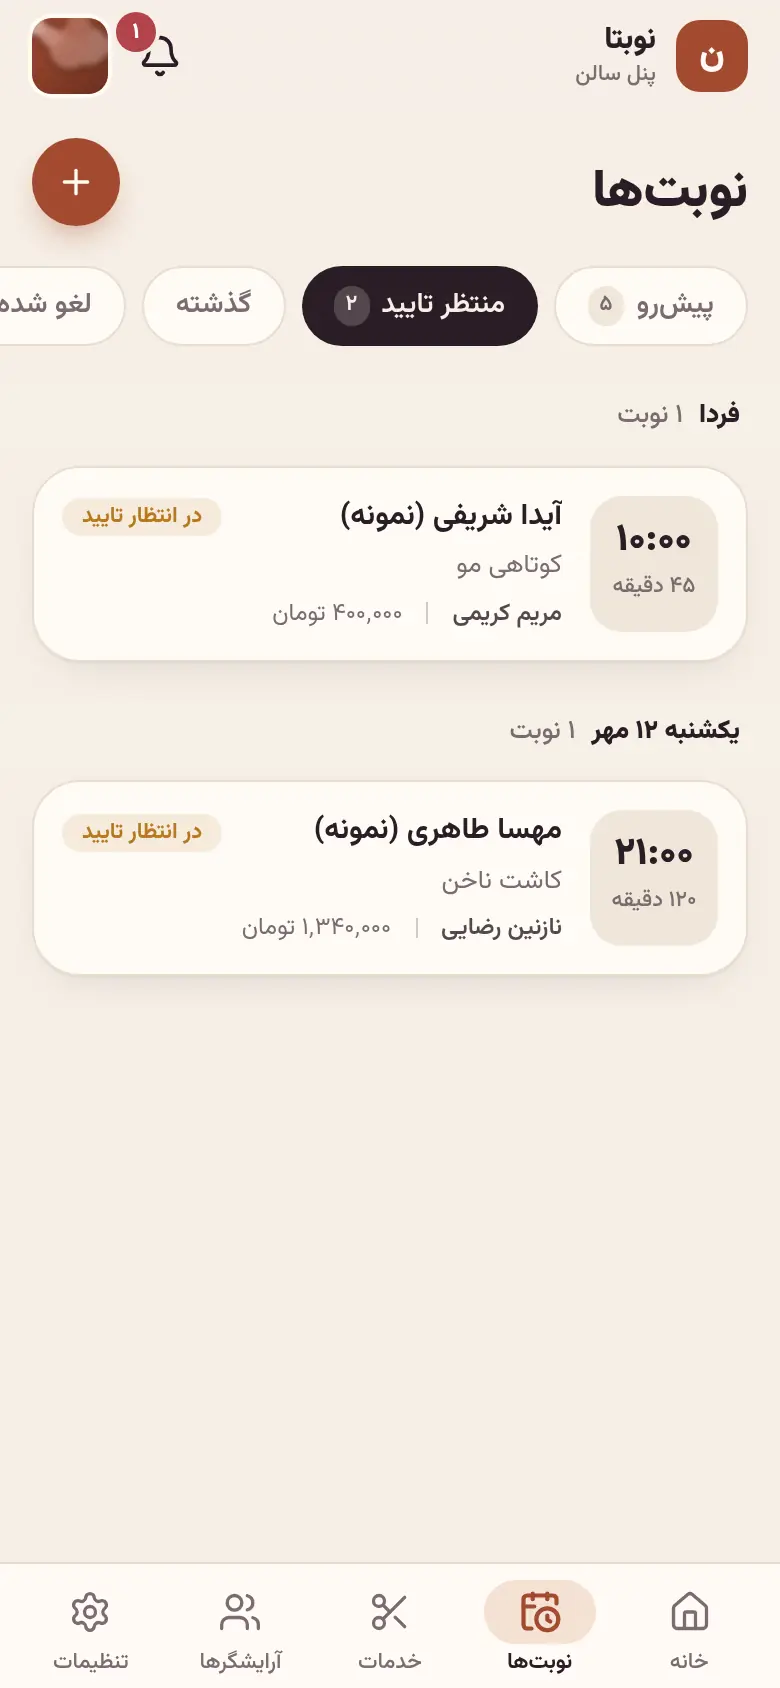
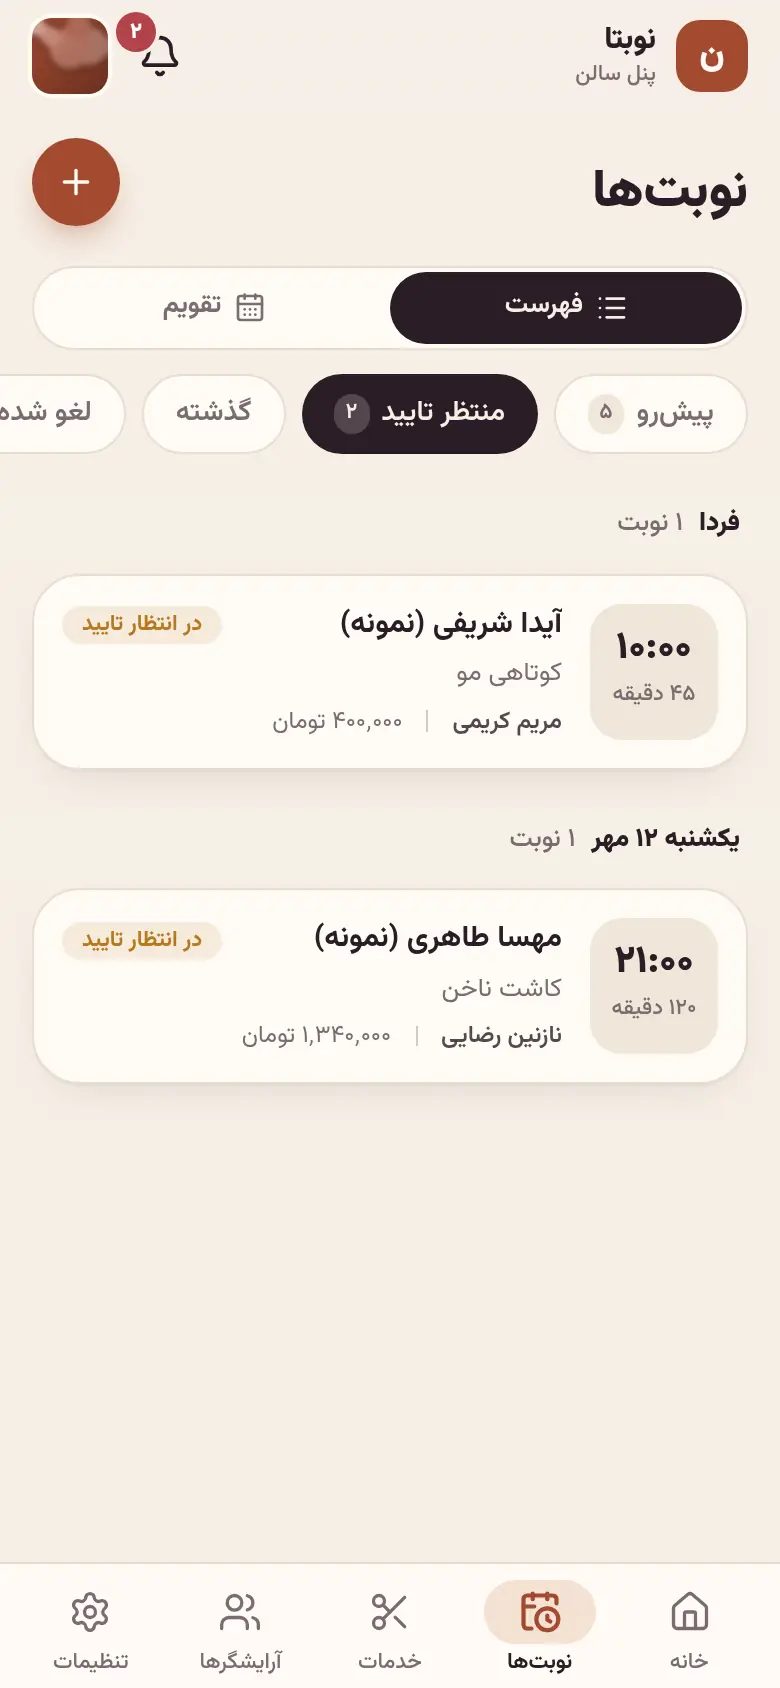
Appointments: Jalali month calendar view (salon and stylist panels)
- «فهرست / تقویم» switch on the shared appointments screen, remembered per device
  (?filter=PENDING still opens the list)
- AppointmentCalendar: Jalali month grid (Saturday–Friday, Friday marked, today ringed,
  salon-local days), booking count per day and a dot when some await confirmation, month
  total; tapping a day lists its appointments below with the usual cards and action sheet;
  month arrows (PeriodSwitcher gains allowFuture)
- Help Center: calendar step (real screenshot) in the owners' appointments guide

Claude-Session: https://claude.ai/code/session_01E1cUf2Db2pw3JrqPEy92s9

diff --git a/apps/web/src/components/app/AppointmentCalendar.tsx b/apps/web/src/components/app/AppointmentCalendar.tsx
@@ -1,0 +1,151 @@
+"use client";
+
+import { useMemo, useState } from "react";
+import { CalendarX2 } from "lucide-react";
+import DateObject from "react-date-object";
+import persian from "react-date-object/calendars/persian";
+import persian_fa from "react-date-object/locales/persian_fa";
+import { jalaliMonthPeriod } from "@/lib/accountingPeriod";
+import { toDateKey } from "@/lib/jalali";
+import { toPersianDigits } from "@/lib/persian";
+import { toSalonWallTime } from "@/lib/salonTime";
+import { PeriodSwitcher } from "./accounting";
+import { AppointmentList, relativeDayLabel, type AppAppointment } from "./appointments";
+import { EmptyState, cx } from "./ui";
+
+// Month view of the appointments screen (salon and stylist panels): a Jalali month grid with
+// each day's booking count (a dot when some still await confirmation), and the tapped day's
+// appointments underneath using the same cards and action sheet as the list. Days are
+// salon-local (toSalonWallTime), weeks run Saturday → Friday, Friday is the weekend.
+
+const WEEKDAYS = ["ش", "ی", "د", "س", "چ", "پ", "ج"];
+
+interface Cell {
+  dateKey: string;
+  day: number;
+  isFriday: boolean;
+}
+
+function monthCells(offset: number, todayKey: string) {
+  const [y, m, d] = todayKey.split("-").map(Number);
+  const first = new DateObject({ date: new Date(y, m - 1, d, 12), calendar: persian, locale: persian_fa }).setDay(1).add(offset, "month");
+  const length = first.month.length;
+  // JS getDay(): 0 = Sunday … 6 = Saturday → column 0 = Saturday.
+  const lead = (first.toDate().getDay() + 1) % 7;
+  const cells: (Cell | null)[] = Array.from({ length: lead }, () => null);
+  for (let i = 0; i < length; i++) {
+    const date = new DateObject(first).add(i, "day").toDate();
+    cells.push({ dateKey: toDateKey(date), day: i + 1, isFriday: date.getDay() === 5 });
+  }
+  return cells;
+}
+
+export default function AppointmentCalendar({
+  appointments,
+  showStylist,
+  onOpen,
+}: {
+  appointments: AppAppointment[];
+  showStylist?: boolean;
+  onOpen: (a: AppAppointment) => void;
+}) {
+  const todayKey = toSalonWallTime(new Date()).dateKey;
+  const [offset, setOffset] = useState(0);
+  const [selected, setSelected] = useState(todayKey);
+
+  const byDay = useMemo(() => {
+    const map = new Map<string, AppAppointment[]>();
+    for (const a of appointments) {
+      const key = toSalonWallTime(new Date(a.startAt)).dateKey;
+      map.set(key, [...(map.get(key) ?? []), a]);
+    }
+    return map;
+  }, [appointments]);
+
+  const cells = useMemo(() => monthCells(offset, todayKey), [offset, todayKey]);
+  const period = useMemo(() => jalaliMonthPeriod(offset), [offset]);
+  const dayList = byDay.get(selected) ?? [];
+  const active = dayList.filter((a) => a.status !== "CANCELLED");
+  const monthTotal = cells.reduce((n, c) => n + (c ? (byDay.get(c.dateKey) ?? []).filter((a) => a.status !== "CANCELLED").length : 0), 0);
+
+  const changeMonth = (next: number) => {
+    setOffset(next);
+    // Keep a day of the shown month selected: today in the current month, otherwise the 1st.
+    const nextCells = monthCells(next, todayKey).filter((c): c is Cell => !!c);
+    setSelected(nextCells.some((c) => c.dateKey === todayKey) ? todayKey : nextCells[0].dateKey);
+  };
+
+  return (
+    <div>
+      <PeriodSwitcher period={period} onChange={changeMonth} allowFuture />
+
+      <div className="rounded-3xl border border-app-line bg-app-card p-3 shadow-app">
+        <div className="mb-1 grid grid-cols-7 text-center text-[11px] font-bold text-app-muted" aria-hidden>
+          {WEEKDAYS.map((w, i) => (
+            <span key={w} className={cx("py-1", i === 6 && "text-app-danger/80")}>
+              {w}
+            </span>
+          ))}
+        </div>
+        <div className="grid grid-cols-7 gap-1" role="grid" aria-label={`تقویم نوبتهای ${period.label}`}>
+          {cells.map((c, i) => {
+            if (!c) return <span key={`blank-${i}`} />;
+            const items = (byDay.get(c.dateKey) ?? []).filter((a) => a.status !== "CANCELLED");
+            const pending = items.some((a) => a.status === "PENDING");
+            const isToday = c.dateKey === todayKey;
+            const isSelected = c.dateKey === selected;
+            const isPast = c.dateKey < todayKey;
+            return (
+              <button
+                key={c.dateKey}
+                type="button"
+                role="gridcell"
+                aria-selected={isSelected}
+                aria-label={`${relativeDayLabel(c.dateKey)}، ${items.length ? `${toPersianDigits(items.length)} نوبت` : "بدون نوبت"}${pending ? "، منتظر تایید دارد" : ""}`}
+                onClick={() => setSelected(c.dateKey)}
+                className={cx(
+                  "relative flex aspect-square flex-col items-center justify-center rounded-2xl text-[15px] transition active:scale-95",
+                  isSelected ? "bg-app-ink text-app-bg" : isToday ? "bg-app-accent-soft text-app-accent ring-1 ring-app-accent/40" : "text-app-ink",
+                  !isSelected && c.isFriday && "text-app-danger/80",
+                  !isSelected && isPast && "opacity-60",
+                )}
+              >
+                <span className={cx("leading-none", (isToday || isSelected) && "font-black")}>{toPersianDigits(c.day)}</span>
+                {items.length > 0 && (
+                  <span
+                    className={cx(
+                      "mt-1 min-w-[18px] rounded-full px-1 text-[10px] font-black leading-[16px]",
+                      isSelected ? "bg-app-bg/20 text-app-bg" : "bg-app-accent text-app-accent-ink",
+                    )}
+                  >
+                    {toPersianDigits(items.length)}
+                  </span>
+                )}
+                {pending && <span className="absolute right-1.5 top-1.5 h-1.5 w-1.5 rounded-full bg-app-pending" aria-hidden />}
+              </button>
+            );
+          })}
+        </div>
+        <div className="mt-3 flex items-center justify-between gap-2 border-t border-app-line px-1 pt-2.5 text-[11px] text-app-muted">
+          <span>
+            {toPersianDigits(monthTotal)} نوبت در {period.label}
+          </span>
+          <span className="flex items-center gap-1.5">
+            <span className="h-1.5 w-1.5 rounded-full bg-app-pending" aria-hidden />
+            منتظر تایید
+          </span>
+        </div>
+      </div>
+
+      <h3 className="mb-2 mt-5 px-1 text-[13px] font-black text-app-ink">
+        {relativeDayLabel(selected)}
+        <span className="ms-2 font-medium text-app-muted">{active.length ? `${toPersianDigits(active.length)} نوبت` : "بدون نوبت"}</span>
+      </h3>
+      {dayList.length === 0 ? (
+        <EmptyState icon={CalendarX2} title="در این روز نوبتی نیست" />
+      ) : (
+        <AppointmentList appointments={dayList} showStylist={showStylist} onOpen={onOpen} order="asc" hideDayHeaders />
+      )}
+    </div>
+  );
+}

diff --git a/apps/web/src/components/app/AppointmentsScreen.tsx b/apps/web/src/components/app/AppointmentsScreen.tsx
@@ -1,13 +1,16 @@
 "use client";
 
 import { useCallback, useEffect, useMemo, useState } from "react";
-import { CalendarX2 } from "lucide-react";
+import { CalendarDays, CalendarX2, List } from "lucide-react";
 import { salonWallTimeToInstant, toSalonWallTime } from "@/lib/salonTime";
 import { AppointmentList, AppointmentSheet, useAppointmentActions, type AppAppointment, type AppointmentStatus } from "./appointments";
 import SalonBookingSheet from "./SalonBookingSheet";
-import { ChipTabs, EmptyState, ErrorBanner, ListSkeleton, PageHeader } from "./ui";
+import AppointmentCalendar from "./AppointmentCalendar";
+import { ChipTabs, EmptyState, ErrorBanner, ListSkeleton, PageHeader, cx } from "./ui";
 
 type Tab = "upcoming" | "pending" | "history" | "cancelled";
+type View = "list" | "calendar";
+const VIEW_KEY = "appointmentsView";
 
 const EMPTY: Record<Tab, string> = {
   upcoming: "نوبت پیشرویی ندارید",
@@ -40,6 +43,7 @@ export default function AppointmentsScreen({
   const [appointments, setAppointments] = useState<AppAppointment[] | null>(null);
   const [error, setError] = useState<string | null>(null);
   const [tab, setTab] = useState<Tab>("upcoming");
+  const [view, setView] = useState<View>("list");
 
   const reload = useCallback(() => {
     load()
@@ -56,7 +60,20 @@ export default function AppointmentsScreen({
     // Read once after mount (not during render) so SSR and hydration agree.
     // eslint-disable-next-line react-hooks/set-state-in-effect
     if (new URLSearchParams(window.location.search).get("filter") === "PENDING") setTab("pending");
+    // The list/calendar choice is remembered on this device (a deep link to pending opens the list).
+    else {
+      try {
+        if (localStorage.getItem(VIEW_KEY) === "calendar") setView("calendar");
+      } catch {}
+    }
   }, []);
+
+  const chooseView = (v: View) => {
+    setView(v);
+    try {
+      localStorage.setItem(VIEW_KEY, v);
+    } catch {}
+  };
 
   const actions = useAppointmentActions(updateStatus, reload);
 
@@ -78,6 +95,31 @@ export default function AppointmentsScreen({
     <>
       <PageHeader title={title} action={headerAction} />
 
+      <div className="mb-3 flex rounded-full border border-app-line bg-app-card p-0.5" role="tablist" aria-label="نمایش نوبتها">
+        {(
+          [
+            ["list", List, "فهرست"],
+            ["calendar", CalendarDays, "تقویم"],
+          ] as const
+        ).map(([v, Icon, label]) => (
+          <button
+            key={v}
+            type="button"
+            role="tab"
+            aria-selected={view === v}
+            onClick={() => chooseView(v)}
+            className={cx(
+              "flex h-9 flex-1 items-center justify-center gap-1.5 rounded-full text-[13px] font-bold transition",
+              view === v ? "bg-app-ink text-app-bg" : "text-app-muted",
+            )}
+          >
+            <Icon className="h-4 w-4" aria-hidden />
+            {label}
+          </button>
+        ))}
+      </div>
+
+      {view === "list" && (
       <ChipTabs<Tab>
         value={tab}
         onChange={setTab}
@@ -88,11 +130,14 @@ export default function AppointmentsScreen({
           { value: "cancelled", label: "لغو شده" },
         ]}
       />
+      )}
 
       {error && <ErrorBanner onRetry={reload}>{error}</ErrorBanner>}
 
       {!appointments ? (
         !error && <ListSkeleton />
+      ) : view === "calendar" ? (
+        <AppointmentCalendar appointments={appointments} showStylist={showStylist} onOpen={actions.open} />
       ) : list.length === 0 ? (
         <EmptyState icon={CalendarX2} title={EMPTY[tab]} />
       ) : (

diff --git a/apps/web/src/content/tutorials.ts b/apps/web/src/content/tutorials.ts
@@ -197,10 +197,10 @@ export const TUTORIALS: Tutorial[] = [
   {
     slug: "manage-appointments",
     role: "owner",
-    title: "مدیریت نوبتها: تایید، انجام، لغو و ویرایش",
+    title: "مدیریت نوبتها: تقویم، تایید، انجام، لغو و ویرایش",
     summary: "نوبتهای منتظر را تایید کنید، بعد از کار «انجام شد» بزنید و در صورت نیاز نوبت را جابهجا یا لغو کنید.",
     minutes: 2,
-    keywords: ["نوبت", "تایید", "انجام شد", "لغو", "نیامد", "غیبت", "ویرایش", "جابجایی", "تغییر ساعت"],
+    keywords: ["نوبت", "تایید", "انجام شد", "لغو", "نیامد", "غیبت", "ویرایش", "جابجایی", "تغییر ساعت", "تقویم", "ماه"],
     steps: [
       {
         title: "نوبتهای منتظر تایید",
@@ -214,6 +214,12 @@ export const TUTORIALS: Tutorial[] = [
         shot: "owner-manage-2",
         callouts: ["ویرایش نوبت", "تایید نوبت", "انجام شد", "مشتری نیامد"],
         tip: "اگر نوبتی لغو شود، مشتریهایی که برای همان روز در لیست انتظار هستند خبردار میشوند.",
+      },
+      {
+        title: "نمای تقویم ماه",
+        body: "با «تقویم» بالای صفحه، ماه شمسی را یکجا ببینید: عدد زیر هر روز تعداد نوبتهای آن روز است و نقطه نارنجی یعنی نوبت منتظر تایید دارد. روی هر روز بزنید تا نوبتهایش زیر تقویم نمایش داده شود و با فلشها بین ماهها جابهجا شوید. انتخاب فهرست یا تقویم روی همین گوشی به خاطر میماند؛ آرایشگرها هم همین نما را دارند.",
+        shot: "owner-manage-3",
+        callouts: ["نمای تقویم", "روز انتخابشده", "نوبتهای همان روز"],
       },
     ],
   },

diff --git a/apps/web/src/components/app/appointments.tsx b/apps/web/src/components/app/appointments.tsx
@@ -111,21 +111,26 @@ export function AppointmentList({
   showStylist,
   onOpen,
   order = "asc",
+  hideDayHeaders,
 }: {
   appointments: AppAppointment[];
   showStylist?: boolean;
   onOpen: (a: AppAppointment) => void;
   order?: "asc" | "desc";
+  /** For a single day whose heading is already shown (the calendar view). */
+  hideDayHeaders?: boolean;
 }) {
   let index = 0;
   return (
     <div className="flex flex-col gap-5">
       {groupByDay(appointments, order).map((group) => (
         <section key={group.dateKey}>
-          <h3 className="sticky top-[calc(56px+env(safe-area-inset-top))] z-10 -mx-4 mb-2 bg-app-bg/90 px-5 py-1.5 text-[13px] font-black text-app-ink backdrop-blur">
-            {relativeDayLabel(group.dateKey)}
-            <span className="ms-2 font-medium text-app-muted">{toPersianDigits(group.items.length)} نوبت</span>
-          </h3>
+          {!hideDayHeaders && (
+            <h3 className="sticky top-[calc(56px+env(safe-area-inset-top))] z-10 -mx-4 mb-2 bg-app-bg/90 px-5 py-1.5 text-[13px] font-black text-app-ink backdrop-blur">
+              {relativeDayLabel(group.dateKey)}
+              <span className="ms-2 font-medium text-app-muted">{toPersianDigits(group.items.length)} نوبت</span>
+            </h3>
+          )}
           <div className="flex flex-col gap-2.5">
             {group.items.map((a) => (
               <AppointmentCard key={a.id} appointment={a} showStylist={showStylist} onOpen={onOpen} index={index++} />

diff --git a/apps/web/src/components/app/accounting.tsx b/apps/web/src/components/app/accounting.tsx
@@ -20,8 +20,8 @@ import PickerSelect from "./PickerSelect";
 
 // Building blocks shared by the salon accounting page and the stylist earnings page.
 
-/** "‹ مهر ۱۴۰۵ ›" — step through Jalali months; can't go past the current month. */
-export function PeriodSwitcher({ period, onChange }: { period: AccountingPeriod; onChange: (offset: number) => void }) {
+/** "‹ مهر ۱۴۰۵ ›" — step through Jalali months; can't go past the current month unless `allowFuture`. */
+export function PeriodSwitcher({ period, onChange, allowFuture }: { period: AccountingPeriod; onChange: (offset: number) => void; allowFuture?: boolean }) {
   return (
     <div className="mb-4 flex items-center justify-between rounded-3xl border border-app-line bg-app-card p-1.5 shadow-app">
       {/* RTL: the earlier month sits on the right. */}
@@ -40,7 +40,7 @@ export function PeriodSwitcher({ period, onChange }: { period: AccountingPeriod;
       <button
         type="button"
         onClick={() => onChange(period.offset + 1)}
-        disabled={period.offset >= 0}
+        disabled={!allowFuture && period.offset >= 0}
         aria-label="ماه بعد"
         className="flex h-11 w-11 items-center justify-center rounded-2xl text-app-ink active:bg-app-card-2 disabled:opacity-25"
       >
